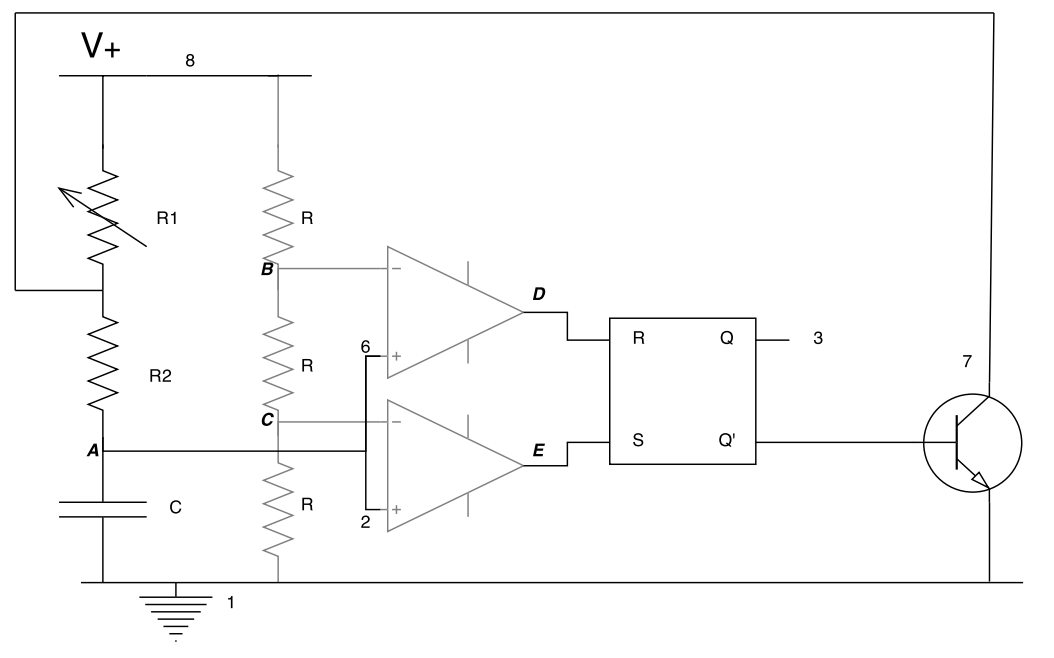
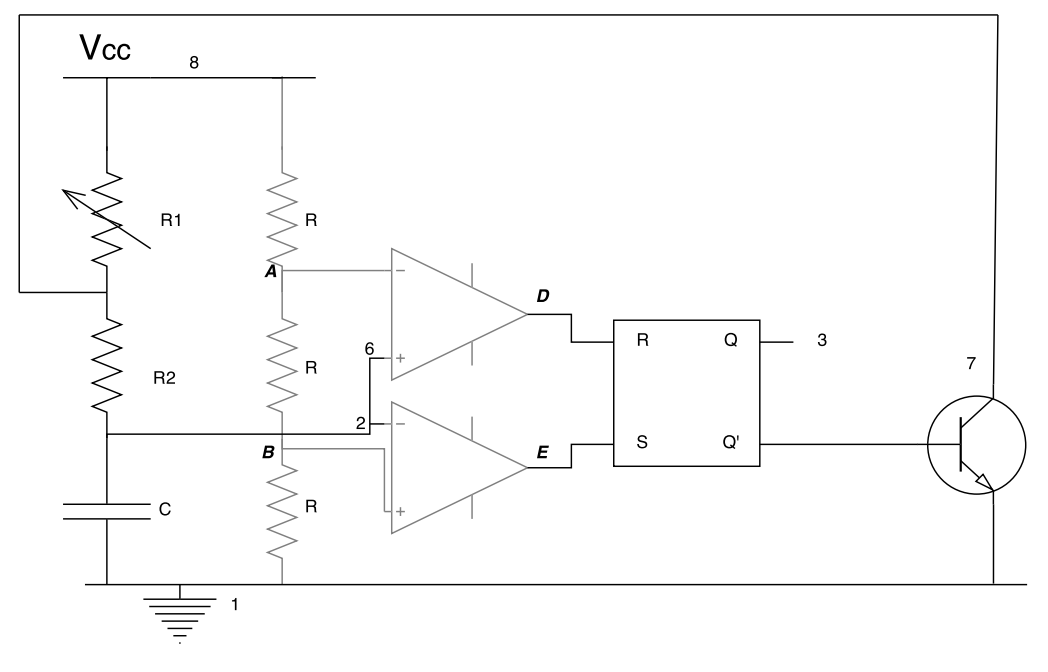
Next step

Changed region(s): [[0.0, 0.0, 0.9771, 0.9726], [0.4275, 0.6383, 0.458, 0.6687], [0.1527, 0.304, 0.1832, 0.3343]]

diff --git a/index.html b/index.html
@@ -70,7 +70,7 @@ MathJax.Hub.Config({
            </div>
        </div>
      </div>
-     <p><strong>Fonctionnement du NE555 en mode astable</strong><br> 
+     <p><strong>Fonctionnement du NE555 en mode astable</strong></p>
      <div class="row">
       <div class="col-md-6">
 			<div class="innerContainer">
@@ -78,32 +78,48 @@ MathJax.Hub.Config({
 </div>
        </div>
        <div class="col-md-6">
-            Les trois r&eacute;sistances R sont identiques. On remarque directement les tensions suivantes :<br>
-            \(V_B = \frac{2}{3}V_+\)<br>
-            \(V_C = \frac{1}{3}V_+\)<br><br>
-            La tension en A repr&eacute;sente la tension sur la capacit&eacute;. On remarque que les deux aops sont plac&eacute;s de mani&egrave;re &agrave ce que :<br>
-            1. Si \(V_A > V_B\), alors \(V_D = V_+\), sinon \(V_D = 0V\)<br>
-            2. Si \(V_A > V_C\), alors \(V_E = V_+\), sinon \(V_E = 0V\)<br><br>
-            Ensuite, au niveau de la bascule RS:<br>
-            1. Si \(V_D = V_+\), c'est un reset : \(Q = 0V, \bar{Q} = V_+\)
+            Les <strong>trois r&eacute;sistances R </strong>sont identiques. On remarque directement les tensions suivantes :<br>
+            \(V_A = \frac{2}{3}V_{cc}\)<br>
+            \(V_B = \frac{1}{3}V_{cc}\)<br><br>
+            On remarque que les <strong>deux aops</strong> sont plac&eacute;s de mani&egrave;re &agrave ce que :<br>
+            1. Si \(V_C > V_A\), alors \(V_D = V_{cc}\), sinon \(V_D = 0V\)<br>
+            2. Si \(V_C < V_B\), alors \(V_E = V_{cc}\), sinon \(V_E = 0V\)<br><br>
+            Ensuite, au niveau de la <strong>bascule RS</strong> :<br>
+            1. Si \(V_D = V_{cc}\), c'est un reset : \(Q = 0V, \bar{Q} = V_{cc}\).
+            Le BJT est passant donc la borne sup&eacute;rieure de R2 est connect&eacute;e par une faible imp&eacute;dance &agrave; la terre. La capacit&eacute; se d&eacute;charge dans R2.<br>2. Si \(V_E = V_{cc}\), c'est un set : \(Q = V_{cc}, \bar{Q} = 0V\).
+            Le BJT est bloqu&eacute;, la capacit&eacute; se charge &agrave; travers R1 et R2.
        </div>
-       </div></p>
+       </div>
+       <div class="row">
+       <div class="col-md-12">
+       On a donc en sortie de Q et Q' des signaux carr&eacute;s compl&eacute;mentaires dont la dur&eacute;e est d&eacute;termin&eacute;e par R1, R2 et C.
+       </div>
+       </div>
      
      
-      <p><strong>Circuit et principe de fonctionnement</strong><br>
+      <p><strong>Circuit complet et calculs</strong><br>
       <div class="row">
-      <div class="col-md-5">
-			<div class="innerContainer">
-            <img class="img-responsive" src="img/circuit.png">
-</div>
-       </div>
-       <div class="col-md-7">Les temps haut et bas sont donn&eacute;s par :
+
+       <div class="col-md-7">Les &eacute;l&eacute;ments suivants ont &eacute;t&eacute; ajout&eacute;s :<br>
+       - un <strong>potentiom&egrave;tre</strong> &agrave; la place de R1, il permettra de changer le temps de recharge de la capacit&eacute;.<br>
+- une <strong>LED D1</strong> en parall&egrave;le avec R1. Elle sera allum&eacute;e quand on "reset" la bascule, quand la capacit&eacute; se d&eacute;charge. <br>
+- une <strong>LED D2</strong> entre 3 (sortie Q de la bascule RS) et la terre. Elle sera allum&eacute;e lorsque l'on "set" la bascule, quand la capacit&eacute; se recharge. 
+<br><br>
+
+
+Les temps haut et bas sont donn&eacute;s par :
             $$t_h = ln(2).(R_1 + R_2).C$$
             $$t_l = ln(2).R_2.C$$
             La fr&eacute;quence vaut donc :
             $$f = \frac{1}{t_l + t_h} = \frac{1}{ln(2).(R_1 + 2R_2).C}$$
        </div>
+         <div class="col-md-5">
+			<div class="innerContainer">
+            <img class="img-responsive" src="img/circuit.png">
+</div>
        </div>
+           </div>
+   
       </p>
       
 		<hr>
